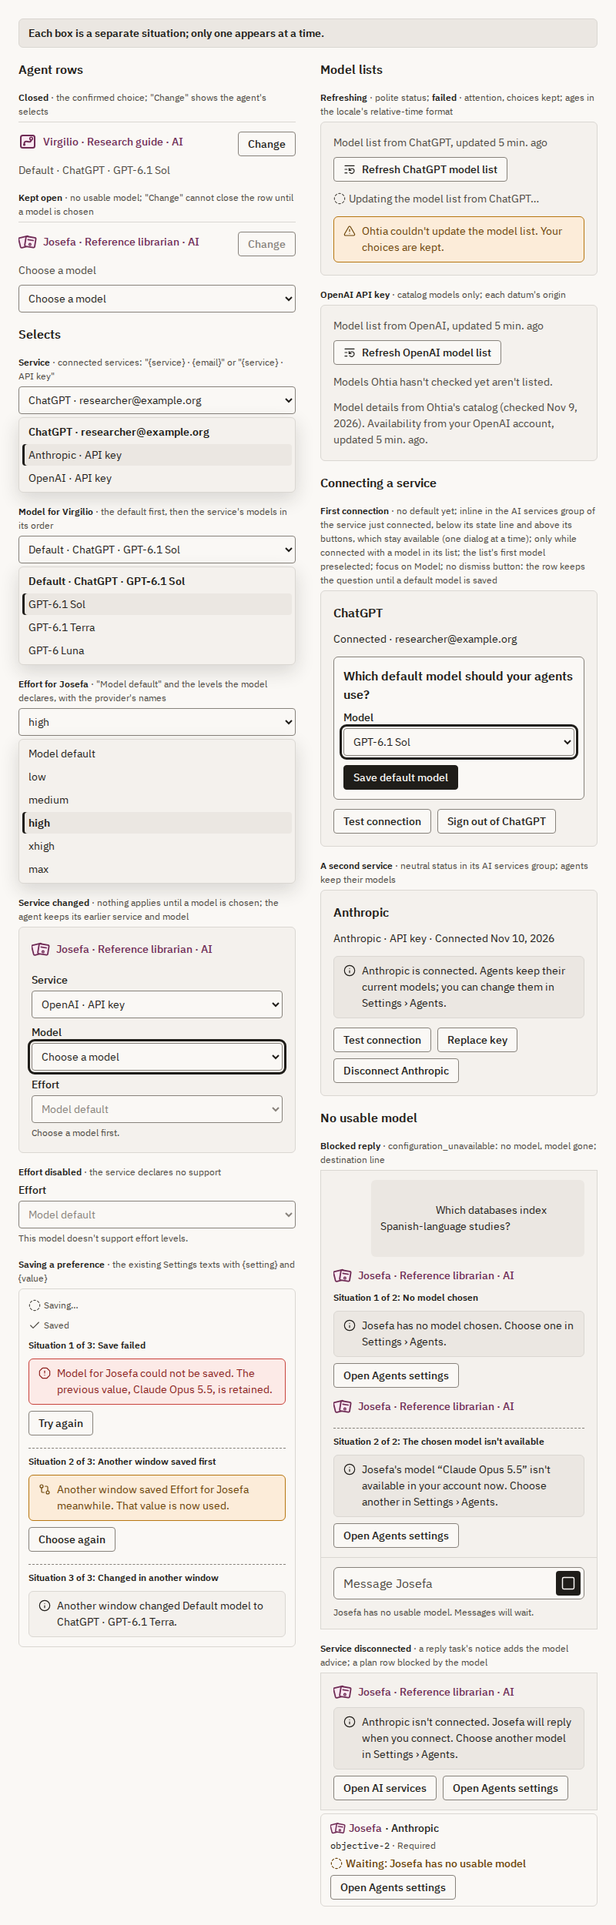
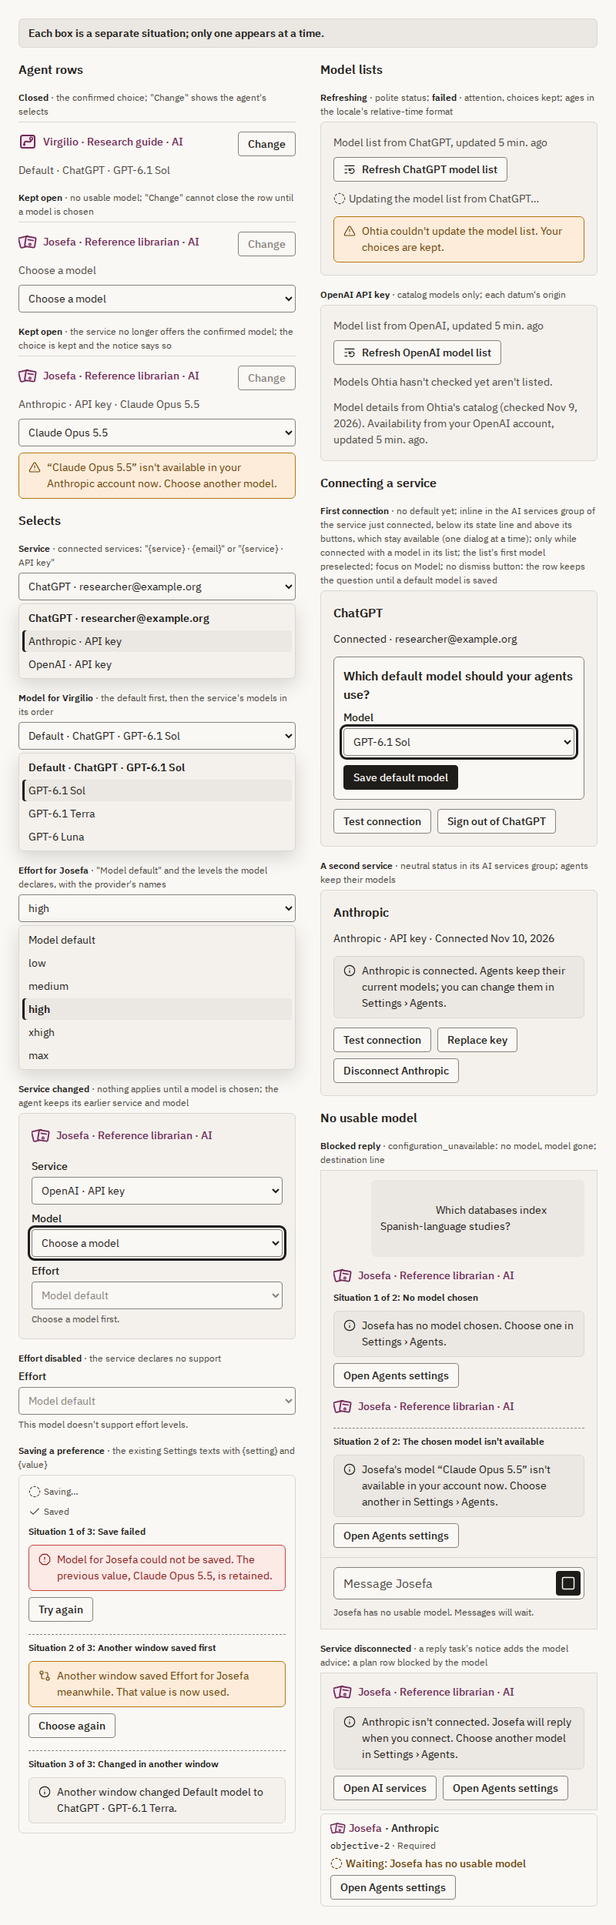
feat(app): say when a chosen model is no longer available (#463)
Settings › Agents now shows an attention notice in "Default model" and in
each agent row whose confirmed model, its own or the inherited default,
is no longer offered by its connection's complete list. The notice uses
the existing availability judgement, describes the Model select and
never changes the saved choice.

Changed region(s): [[0.0312, 0.1559, 0.4688, 0.9668]]

diff --git a/tests/connections-panel.test.ts b/tests/connections-panel.test.ts
@@ -1623,6 +1623,7 @@ describe("agent rows in Settings › Agents", () => {
     options: {
       openAgent?: "virgilio" | "josefa" | { current: "virgilio" | "josefa" | undefined };
       replace?: FoundationPort["replaceAgentPreference"];
+      list?: FoundationPort["listProviderModels"];
     } = {},
   ) {
     let preferences: AgentPreferences = {
@@ -1649,6 +1650,7 @@ describe("agent rows in Settings › Agents", () => {
         options.replace ??
         (() => ({ result: Promise.resolve(failure("storage_failed")), cancel() {} })),
       listProviderModels: (input: ProviderModelPageInput) => {
+        if (options.list) return options.list(input);
         const models =
           input.connection === "chatgpt"
             ? [{ id: "first", name: "First model", effortSupport: "unknown" }]
@@ -1694,6 +1696,17 @@ describe("agent rows in Settings › Agents", () => {
         preferences = { ...preferences, preferences: next };
         const revision = next.find((item) => item.target === target)?.revision;
         await act(async () => notify?.(target, revision));
+      },
+      relist: async (connection: string) => {
+        preferences = {
+          ...preferences,
+          lists: preferences.lists.map((list) =>
+            list.connection === connection
+              ? { ...list, list_revision: list.list_revision + 1 }
+              : list,
+          ),
+        };
+        await act(async () => notify?.());
       },
       agent: (target: string) => {
         const element = container.querySelector<HTMLElement>(`[data-agent-row="${target}"]`)!;
@@ -1866,6 +1879,188 @@ describe("agent rows in Settings › Agents", () => {
     expect(josefa.summary()).toBe("Anthropic · API key · Retired model");
     expect(josefa.button.getAttribute("aria-expanded")).toBe("true");
     expect(josefa.button.getAttribute("aria-disabled")).toBe("true");
+  });
+
+  describe("a confirmed model the list no longer offers", () => {
+    const gone = row("default", {
+      connection: "chatgpt",
+      model: "gone",
+      modelName: "Gone model",
+      inherit: false,
+    });
+    const notices = (element: Element) =>
+      [...element.querySelectorAll(".connection-attention")].map((notice) => notice.textContent);
+    const defaults = (container: HTMLElement) =>
+      container.querySelector<HTMLElement>(".agent-settings > .agent-choice")!;
+    const goneText =
+      "“Gone model” isn’t available in your ChatGPT account now. Choose another model.";
+
+    it("says so in Default model and in every row that inherits it, keeping the choice", async () => {
+      const replace = vi.fn(() => ({
+        result: Promise.resolve(failure("storage_failed")),
+        cancel() {},
+      })) as unknown as FoundationPort["replaceAgentPreference"];
+      const t = render([gone], { replace });
+      await t.mount();
+      expect(notices(defaults(t.container))).toEqual([goneText]);
+      const notice = defaults(t.container).querySelector(".connection-attention")!;
+      expect(notice.getAttribute("role")).toBe("status");
+      expect(notice.getAttribute("data-settings-attention")).toBe("triangle-alert");
+      for (const target of ["virgilio", "josefa"]) {
+        const agent = t.agent(target);
+        expect(agent.button.getAttribute("aria-expanded")).toBe("true");
+        expect(notices(agent.element)).toEqual([goneText]);
+      }
+      const model = defaults(t.container).querySelectorAll("select")[1]!;
+      expect(model.value).toBe("gone");
+      expect([...model.options].map((option) => [option.textContent, option.disabled])).toEqual([
+        ["Choose a model", true],
+        ["Gone model", true],
+        ["First model", false],
+      ]);
+      expect(replace).not.toHaveBeenCalled();
+    });
+
+    it("says so only in the row whose own model is gone", async () => {
+      const t = render([
+        defaultRow,
+        row("josefa", {
+          connection: "anthropic",
+          model: "retired",
+          modelName: "Retired model",
+          inherit: false,
+        }),
+      ]);
+      await t.mount();
+      expect(notices(t.agent("josefa").element)).toEqual([
+        "“Retired model” isn’t available in your Anthropic account now. Choose another model.",
+      ]);
+      expect(notices(defaults(t.container))).toEqual([]);
+      expect(notices(t.agent("virgilio").element)).toEqual([]);
+    });
+
+    it("names a gone model without a stored name by its identifier", async () => {
+      const t = render([{ ...gone, modelName: null }]);
+      await t.mount();
+      expect(notices(defaults(t.container))).toEqual([
+        "“gone” isn’t available in your ChatGPT account now. Choose another model.",
+      ]);
+    });
+
+    it("stays silent for an offered model and for no model", async () => {
+      for (const preferences of [[defaultRow], [row("default", {})]]) {
+        const t = render(preferences);
+        await t.mount();
+        expect(notices(t.container)).toEqual([]);
+      }
+    });
+
+    it("stays silent while the list is unread and leaves a failed read to its own notice", async () => {
+      const unread = render([gone], {
+        list: () => ({ result: new Promise(() => {}), cancel() {} }),
+      });
+      await unread.mount();
+      expect(notices(unread.container)).toEqual([]);
+      const failed = render([gone], {
+        list: () => ({ result: Promise.resolve(failure("storage_failed")), cancel() {} }),
+      });
+      await failed.mount();
+      expect(notices(defaults(failed.container))).toEqual([
+        "Preferences could not be refreshed. Saved changes remain saved. Refresh to check the current values.",
+      ]);
+    });
+
+    it("keeps the judgement while the list updates and clears it when the list offers the model", async () => {
+      let offered = false;
+      const releases: (() => void)[] = [];
+      const list = (input: ProviderModelPageInput) => {
+        const models = [
+          { id: "first", name: "First model", effortSupport: "unknown" },
+          ...(offered ? [{ id: "gone", name: "Gone model", effortSupport: "unknown" }] : []),
+        ];
+        const value = {
+          connection: input.connection,
+          list_revision: input.list_revision,
+          nextCursor: models.length,
+          hasMore: false,
+          models,
+        };
+        return input.list_revision === 1
+          ? call(value)
+          : {
+              result: new Promise((resolve) => {
+                releases.push(() => {
+                  resolve({ ok: true, value });
+                });
+              }),
+              cancel() {},
+            };
+      };
+      const t = render([gone], { list: list as FoundationPort["listProviderModels"] });
+      await t.mount();
+      expect(notices(defaults(t.container))).toEqual([goneText]);
+      offered = true;
+      await t.relist("chatgpt");
+      expect(notices(defaults(t.container))).toEqual([goneText]);
+      expect(releases).not.toEqual([]);
+      await act(async () => {
+        for (const release of releases) release();
+      });
+      expect(notices(t.container)).toEqual([]);
+    });
+
+    it("describes the Model select with the notice", async () => {
+      const t = render([gone]);
+      await t.mount();
+      const model = defaults(t.container).querySelectorAll("select")[1]!;
+      const notice = defaults(t.container).querySelector(".connection-attention")!;
+      expect(model.getAttribute("aria-describedby")).toBe(notice.id);
+      expect(notice.id).not.toBe("");
+    });
+
+    it("keeps the judgement of the confirmed choice while another service is drafted", async () => {
+      const t = render([gone]);
+      await t.mount();
+      const service = defaults(t.container).querySelectorAll("select")[0]!;
+      await act(async () => {
+        service.value = "anthropic";
+        service.dispatchEvent(new Event("change", { bubbles: true }));
+      });
+      expect(defaults(t.container).querySelectorAll("select")[1]!.value).toBe("");
+      expect(notices(defaults(t.container))).toEqual([goneText]);
+    });
+
+    it("keeps the notice while the researcher's save is pending and clears it once saved", async () => {
+      let finish: (() => void) | undefined;
+      const replace = vi.fn(() => ({
+        result: new Promise((resolve) => {
+          finish = () => {
+            resolve({ ok: true, value: { resultId: "019a8000-0000-7000-8000-000000000001" } });
+          };
+        }),
+        cancel() {},
+      })) as unknown as FoundationPort["replaceAgentPreference"];
+      const t = render([gone], { replace });
+      await t.mount();
+      const model = defaults(t.container).querySelectorAll("select")[1]!;
+      await act(async () => {
+        model.value = "first";
+        model.dispatchEvent(new Event("change", { bubbles: true }));
+      });
+      expect(replace).toHaveBeenCalledTimes(1);
+      expect(notices(defaults(t.container))).toEqual([goneText]);
+      await t.update([{ ...defaultRow, revision: 2 }]);
+      await act(async () => finish?.());
+      expect(notices(t.container)).toEqual([]);
+    });
+
+    it("clears once an offered model is saved", async () => {
+      const t = render([gone]);
+      await t.mount();
+      expect(notices(t.container)).not.toEqual([]);
+      await t.update([{ ...defaultRow, revision: 2 }], "default");
+      expect(notices(t.container)).toEqual([]);
+    });
   });
 
   it("summarizes an inherited effort override and an unlisted service as its selects name them", async () => {

diff --git a/packages/renderer/src/agents-settings.tsx b/packages/renderer/src/agents-settings.tsx
@@ -824,6 +824,15 @@ function PreferenceControls({
     !settings.data ||
     (!!saved?.model &&
       (judged ? listed : lastJudgement?.key === choiceKey ? lastJudgement.listed : true));
+  // The confirmed model that its connection's complete list no longer offers; the read-failure
+  // notice takes precedence, and a choice never judged is not reported.
+  const unavailable =
+    settings.data && saved?.model && !usable && !catalog.failed
+      ? {
+          model: saved.modelName ?? saved.model,
+          service: connections.find((item) => item.id === saved.connection),
+        }
+      : undefined;
   const savedState =
     settings.saveState?.target === target &&
     ["saving", "saved"].includes(settings.saveState.phase) ? (
@@ -866,6 +875,7 @@ function PreferenceControls({
           id={id + "-model"}
           value={currentModel}
           title={modelLabel}
+          aria-describedby={unavailable?.service ? id + "-unavailable" : undefined}
           aria-disabled={disabled || undefined}
           disabled={!models && target === "default"}
           onChange={(event) => {
@@ -935,6 +945,20 @@ function PreferenceControls({
       </RecoveryFocusBoundary>
       {target === "default" && externalNotice}
       {effortReason && <small id={id + "-effort"}>{effortReason}</small>}
+      {unavailable?.service && (
+        <p
+          id={id + "-unavailable"}
+          className="connection-notice connection-attention"
+          role="status"
+          data-settings-attention="triangle-alert"
+        >
+          <Icon name="triangle-alert" />
+          {message(locale, "agents.modelUnavailable", {
+            model: unavailable.model,
+            service: unavailable.service.displayName,
+          })}
+        </p>
+      )}
       <RecoveryFocusBoundary className="agent-focus-recovery" onRecover={focusChoice}>
         {settings.saveState?.target === target &&
           !["saving", "saved"].includes(settings.saveState.phase) && (

diff --git a/docs/assets/epic-003-interface-specimen.html b/docs/assets/epic-003-interface-specimen.html
@@ -13403,6 +13403,38 @@ rates.groupby("heat_band")["absence_rate"].mean()</code></pre>
                   </div>
                 </div>
               </div>
+              <div class="cell">
+                <p class="state-name">
+                  <b>Kept open</b> · the service no longer offers the confirmed model; the choice is
+                  kept and the notice says so
+                </p>
+                <div class="agent-row">
+                  <div class="agent-row-heading">
+                    <h4><span class="voice-label" data-agent="josefa"></span></h4>
+                    <button
+                      class="button"
+                      aria-expanded="true"
+                      aria-disabled="true"
+                      aria-label="Change model for Josefa"
+                    >
+                      Change
+                    </button>
+                  </div>
+                  <p class="agent-summary">Anthropic · API key · Claude Opus 5.5</p>
+                  <div class="field">
+                    <select class="select" aria-label="Model">
+                      <option>Claude Opus 5.5</option>
+                    </select>
+                  </div>
+                  <div class="notice notice-attention" role="status">
+                    <svg class="icon icon-16" data-i="triangle-alert"></svg>
+                    <p>
+                      “Claude Opus 5.5” isn't available in your Anthropic account now. Choose
+                      another model.
+                    </p>
+                  </div>
+                </div>
+              </div>
               <h3 class="sheet-heading">Selects</h3>
               <div class="cell">
                 <p class="state-name">

diff --git a/packages/contracts/src/catalogs.ts b/packages/contracts/src/catalogs.ts
@@ -59,6 +59,7 @@ export const messageContracts = {
   "agents.refreshFailed": { params: {} },
   "agents.noModel": { params: { agent: "string" } },
   "agents.missingModel": { params: { agent: "string", model: "string" } },
+  "agents.modelUnavailable": { params: { model: "string", service: "string" } },
   "agents.open": { params: {} },
   "agents.destination": { params: { agent: "string" } },
   "agents.planWaiting": { params: { agent: "string" } },

diff --git a/docs/epics/EPIC-003-research-agents/epic.md b/docs/epics/EPIC-003-research-agents/epic.md
@@ -2608,7 +2608,7 @@ The diagnostics viewer and export stay out of this EPIC, as SPEC-001-008 left th
 
 Let the researcher choose, visibly, which service, model and effort each agent uses.[^collaboration][^siwc-models]
 
-- **Settings page "Agents".** It shows the available agents, Virgilio and Josefa, under a "Default model" at the top. "Default model" is always open. Below it, the group "Each agent" lists each agent of `agentPreferenceTargets` other than `default`, in order, as one row: its symbol and voice label, a summary line in `type.ui.body-small` and `content.secondary`, its save state and a disclosure button "Change" named "Change model for {agent}", with `aria-expanded` and `aria-controls`. The summary is the confirmed choice: "Default · {service} · {model}" when the agent uses the default, otherwise "{service} · {model}" with the service label of its Service select, followed by " · " and the effort when it is not "Model default"; "Choose a model" when no model is chosen. "Change" shows or hides the agent's selects below its row and keeps focus; rows open and close independently and are closed when Settings opens. A row is open, and its button cannot close it, while the agent has a rejected, uncertain or conflict notice, its model list cannot be read, or it has no usable model; once that ends, only the researcher closes it. A notice that names an agent opens the Agents page with that agent's row open and focus on its Service select. "Default model" and each agent have their own three selects in two steps, labelled "Service", "Model" and "Effort", stacked one above the other at full width so that long model names are not cut. Each change saves at once with the design system's preference-saving states and the existing Settings texts, where `{setting}` is "Default model", "Service for {agent}", "Model for {agent}" or "Effort for {agent}", and `{value}` is the label that the setting's select shows for the value: "{service} · {model}" for "Default model", the service label below for "Service for {agent}", the model's name or "Default · {service} · {model}" for "Model for {agent}", and "Model default" or the level's name for "Effort for {agent}":
+- **Settings page "Agents".** It shows the available agents, Virgilio and Josefa, under a "Default model" at the top. "Default model" is always open. Below it, the group "Each agent" lists each agent of `agentPreferenceTargets` other than `default`, in order, as one row: its symbol and voice label, a summary line in `type.ui.body-small` and `content.secondary`, its save state and a disclosure button "Change" named "Change model for {agent}", with `aria-expanded` and `aria-controls`. The summary is the confirmed choice: "Default · {service} · {model}" when the agent uses the default, otherwise "{service} · {model}" with the service label of its Service select, followed by " · " and the effort when it is not "Model default"; "Choose a model" when no model is chosen. "Change" shows or hides the agent's selects below its row and keeps focus; rows open and close independently and are closed when Settings opens. A row is open, and its button cannot close it, while the agent has a rejected, uncertain or conflict notice, its model list cannot be read, or it has no usable model; once that ends, only the researcher closes it. When the confirmed model, its own or the inherited default, is one that its connection's complete list no longer offers, "Default model" and each such agent show below their selects an attention notice with `triangle-alert`, announced as a status, "“{model}” isn't available in your {service} account now. Choose another model.", where `{model}` is the saved model name and `{service}` the connection's display name; the choice is kept, and the notice follows the same availability judgement as the open row, so it waits for the list and yields to the notice of a list that cannot be read. A notice that names an agent opens the Agents page with that agent's row open and focus on its Service select. "Default model" and each agent have their own three selects in two steps, labelled "Service", "Model" and "Effort", stacked one above the other at full width so that long model names are not cut. Each change saves at once with the design system's preference-saving states and the existing Settings texts, where `{setting}` is "Default model", "Service for {agent}", "Model for {agent}" or "Effort for {agent}", and `{value}` is the label that the setting's select shows for the value: "{service} · {model}" for "Default model", the service label below for "Service for {agent}", the model's name or "Default · {service} · {model}" for "Model for {agent}", and "Model default" or the level's name for "Effort for {agent}":
   - Service: the connected services, each labelled "{service} · {email}" for a `subscription` connection or "{service} · API key" for an `api_key` connection, such as "ChatGPT · {email}" or "Anthropic · API key". The label shows only the access type or the account email, never any part of a key.
   - Model: only that service's models, with the names the service gives, in the order it sends them.
   - Effort: "Model default" and the levels that the service declares the model supports, with the provider's names as the provider writes them, such as "high", because effort levels are not a common scale across providers. When the service declares that the model does not support effort, the control is disabled with "This model doesn't support effort levels."; when the service says nothing about it, the control is disabled with "This model doesn't report effort levels."; either way no effort is sent. The ChatGPT adapter reads `supported_reasoning_levels` and `default_reasoning_level` from the account catalog when present and normalizes them to the shared model contract.[^siwc-reasoning-catalog] The adapter offers levels that the Responses API accepts in their account-catalog order.[^openai-responses-create] An omitted levels field means `unknown`; a declaration with no level usable through the Responses API means `unsupported`. Malformed level entries make the refresh fail and preserve the prior complete catalog. Each agent can choose its own effort, including when it inherits the default model. The adapter sends an explicitly chosen level in `reasoning.effort`; "Model default" leaves effort to the provider.[^openai-responses-create] Ohtia records any effort the response reports. The real-account step records the fields that the account catalog carried.[^siwc-models]
@@ -2859,7 +2859,7 @@ The measurements that the earlier blocks left implicit live in the "Measurements
 
 ![Settings › Agents at 1280 × 1240: the page list with Agents current; Default model with Service, Model and Effort; under Each agent, Virgilio's closed row with its summary and Change, and Josefa's row opened by Change with her summary and three selects.](../../assets/epic-003-agents-settings.png)
 
-![Agents settings sheet at 800 × 2501: a closed agent row and a row kept open without a usable model, the select lists, save texts, refreshing each service's model list, the OpenAI catalog, the first-connection question inline in its AI services group below the state line and above the row's buttons, a second service and blocked replies.](../../assets/epic-003-agents-settings-states.png)
+![Agents settings sheet at 800 × 2501: a closed agent row, a row kept open without a usable model and one kept open because the service no longer offers its model, with its notice, the select lists, save texts, refreshing each service's model list, the OpenAI catalog, the first-connection question inline in its AI services group below the state line and above the row's buttons, a second service and blocked replies.](../../assets/epic-003-agents-settings-states.png)
 
 ![The ActivityBadge options compared at 1280 × 794; option A, the corner pill and circle, is the chosen one.](../../assets/epic-003-attention.png)
 

diff --git a/docs/settings.md b/docs/settings.md
@@ -8,7 +8,7 @@ description: "Compose Settings with application preferences, durable receipts, w
 
 ## Ownership
 
-Settings is a dialog with a page list and the selected page. Accessibility and appearance holds the Language, Appearance, Interface zoom, Characters, Workspace layout and Project memory text groups; Project memory text contains Source quote length (characters) and Entry text length (characters). AI services holds one group per connection, with its connection controls, the first-connection question, and its model list age and refresh action, followed by Simultaneous work with the AI replies at the same time control. The OpenRouter group also shows the key's expiry date when it has one, and below its row a line saying that OpenRouter's privacy settings, guardrails, plugins and observability destinations decide where messages go, with links to those OpenRouter settings and to its usage page. Besides adding or replacing a key, the OpenRouter group offers "Sign in with OpenRouter", which obtains a key in the browser and comes before the key action while the group is not connected; while it waits, the group says "Waiting for you to finish signing in to OpenRouter in your browser…" and offers only "Cancel sign-in", which keeps the previous key, and when OpenRouter may have created a key that Ohtia did not keep, the row says so in small text with a link to the OpenRouter keys page. Agents holds the always-open default model and, under Each agent, one summary row per agent whose Change button shows its selects; a row stays open while it has an unresolved save notice, an unreadable model list or no usable model, and a notice that names an agent opens that row. [Research location](#research-location) provides the managed store inspection. Updates holds the Check for updates when Ohtia starts control of [SPEC-001-040](epics/EPIC-001-desktop-foundation/epic.md#spec-001-040-update-check-and-notice-in-the-application), enabled by default. Settings opens on Accessibility and appearance; a recovery action opens the page that owns its control. Below the 600 px compact width class the dialog shows either the page list or one page with Back; opening there starts at the list, and narrowing an open dialog keeps the page in use. A page list entry names a page whose rejected, uncertain, conflict, not-applied or read-failure notice is still shown. Changes save immediately; the dialog has a close action and no Save or Cancel action. The [Settings specification](epics/EPIC-002-basic-interface/epic.md#spec-002-010-extensible-settings-with-real-application-preferences) owns the product contract and the [save-state specification](epics/EPIC-002-basic-interface/epic.md#spec-002-025-settings-presentation-and-preference-save-states) owns the presentation treatments.
+Settings is a dialog with a page list and the selected page. Accessibility and appearance holds the Language, Appearance, Interface zoom, Characters, Workspace layout and Project memory text groups; Project memory text contains Source quote length (characters) and Entry text length (characters). AI services holds one group per connection, with its connection controls, the first-connection question, and its model list age and refresh action, followed by Simultaneous work with the AI replies at the same time control. The OpenRouter group also shows the key's expiry date when it has one, and below its row a line saying that OpenRouter's privacy settings, guardrails, plugins and observability destinations decide where messages go, with links to those OpenRouter settings and to its usage page. Besides adding or replacing a key, the OpenRouter group offers "Sign in with OpenRouter", which obtains a key in the browser and comes before the key action while the group is not connected; while it waits, the group says "Waiting for you to finish signing in to OpenRouter in your browser…" and offers only "Cancel sign-in", which keeps the previous key, and when OpenRouter may have created a key that Ohtia did not keep, the row says so in small text with a link to the OpenRouter keys page. Agents holds the always-open default model and, under Each agent, one summary row per agent whose Change button shows its selects; a row stays open while it has an unresolved save notice, an unreadable model list or no usable model, and a notice that names an agent opens that row. When the service no longer offers a chosen model, "Default model" and each agent using that model say "“{model}” isn't available in your {service} account now. Choose another model." [Research location](#research-location) provides the managed store inspection. Updates holds the Check for updates when Ohtia starts control of [SPEC-001-040](epics/EPIC-001-desktop-foundation/epic.md#spec-001-040-update-check-and-notice-in-the-application), enabled by default. Settings opens on Accessibility and appearance; a recovery action opens the page that owns its control. Below the 600 px compact width class the dialog shows either the page list or one page with Back; opening there starts at the list, and narrowing an open dialog keeps the page in use. A page list entry names a page whose rejected, uncertain, conflict, not-applied or read-failure notice is still shown. Changes save immediately; the dialog has a close action and no Save or Cancel action. The [Settings specification](epics/EPIC-002-basic-interface/epic.md#spec-002-010-extensible-settings-with-real-application-preferences) owns the product contract and the [save-state specification](epics/EPIC-002-basic-interface/epic.md#spec-002-025-settings-presentation-and-preference-save-states) owns the presentation treatments.
 
 The renderer's [SettingsController](../packages/renderer/src/settings-controller.ts) owns appearance, character, zoom and project memory preference interaction state for one window. Keep it alive across dialog close/reopen so an unresolved write retains its identity. The existing [LanguageController](../packages/renderer/src/language-controller.ts) owns language. The originating [WorkspaceController](../packages/renderer/src/workspace-controller.ts) owns layout; Settings receives that controller and its state rather than loading a second layout record. [The installed composition](application-composition.md#installed-application) connects this authority to workspace chrome. Passive viewport changes, including zoom, do not save layout.
 
